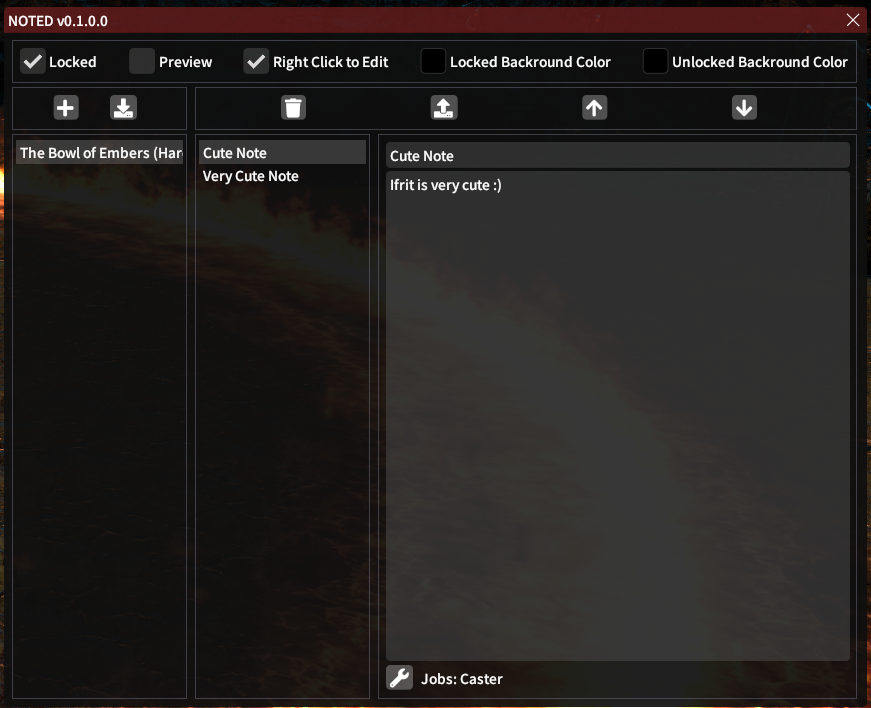
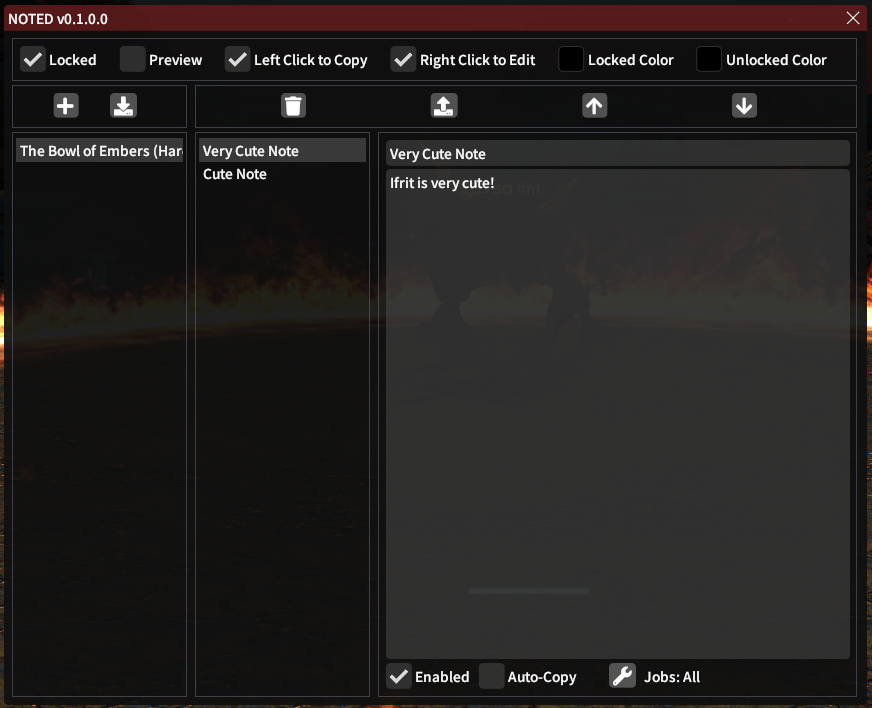
Implementing copy features

Changed region(s): [[0.0, 0.0, 1.0, 1.0]]

diff --git a/NOTED/Windows/SettingsWindow.cs b/NOTED/Windows/SettingsWindow.cs
@@ -138,19 +138,23 @@ namespace NOTED.Windows
                 ImGui.Checkbox("Locked", ref Settings.Locked);
                 DrawHelper.SetTooltip("Untick to be able to move and resize the notes.");
 
-                DrawHelper.Tab();
+                DrawHelper.Tab(0.6f);
                 ImGui.Checkbox("Preview", ref Settings.Preview);
                 DrawHelper.SetTooltip("Tick to preview a dummy note and be able to move it and resize it.");
 
-                DrawHelper.Tab();
+                DrawHelper.Tab(0.6f);
+                ImGui.Checkbox("Left Click to Copy", ref Settings.LeftClickToCopy);
+                DrawHelper.SetTooltip("When enabled, left clicking on a note will copy its contents to the clipboard.");
+
+                DrawHelper.Tab(0.6f);
                 ImGui.Checkbox("Right Click to Edit", ref Settings.RightClickToEdit);
                 DrawHelper.SetTooltip("When enabled, right clicking on a note will open the configuration window to edit it.");
 
-                DrawHelper.Tab();
-                ImGui.ColorEdit4("Locked Backround Color", ref Settings.LockedBackgroundColor, ImGuiColorEditFlags.NoInputs);
+                DrawHelper.Tab(0.6f);
+                ImGui.ColorEdit4("Locked Color", ref Settings.LockedBackgroundColor, ImGuiColorEditFlags.NoInputs);
 
-                DrawHelper.Tab();
-                ImGui.ColorEdit4("Unlocked Backround Color", ref Settings.UnlockedBackgroundColor, ImGuiColorEditFlags.NoInputs);
+                DrawHelper.Tab(0.6f);
+                ImGui.ColorEdit4("Unlocked Color", ref Settings.UnlockedBackgroundColor, ImGuiColorEditFlags.NoInputs);
             }
             ImGui.EndChild();
         }
@@ -159,7 +163,7 @@ namespace NOTED.Windows
         {
             ImGui.BeginChild("##Buttons", new Vector2(150 * _scale, 37 * _scale), true);
             {
-                DrawHelper.Tab(1.1f);
+                DrawHelper.Tab(1.2f);
                 ImGui.PushFont(UiBuilder.IconFont);
                 if (ImGui.Button(FontAwesomeIcon.Plus.ToIconString()))
                 {
@@ -314,11 +318,16 @@ namespace NOTED.Windows
                     for (int i = 0; i < SelectedDuty.Notes.Count; i++)
                     {
                         Note note = SelectedDuty.Notes[i];
+                        uint color = note.Enabled ? 0xFFFFFFFF : 0xFF666666;
+                        ImGui.PushStyleColor(ImGuiCol.Text, color);
+
                         if (ImGui.Selectable(note.Title + "##note" + i.ToString(), note == SelectedNote))
                         {
                             SelectedNote = note;
                             NeedsFocus = true;
                         }
+
+                        ImGui.PopStyleColor();
                     }
                 }
             }
@@ -342,6 +351,13 @@ namespace NOTED.Windows
                     }
                     ImGui.InputTextMultiline("##Text", ref SelectedNote.Text, 99999, new Vector2(398 * _scale, 420 * _scale), ImGuiInputTextFlags.AutoSelectAll);
 
+                    ImGui.Checkbox("Enabled", ref SelectedNote.Enabled);
+
+                    ImGui.SameLine();
+                    ImGui.Checkbox("Auto-Copy", ref SelectedNote.AutoCopy);
+                    DrawHelper.SetTooltip("When enabled, the contents of the note will be automatically copied to the clipboard when it appears.");
+
+                    DrawHelper.Tab();
                     ImGui.PushFont(UiBuilder.IconFont);
                     if (ImGui.Button(FontAwesomeIcon.Wrench.ToIconString()))
                     {

diff --git a/NOTED/Plugin.cs b/NOTED/Plugin.cs
@@ -7,6 +7,7 @@ using Dalamud.Game.Gui;
 using Dalamud.Interface;
 using Dalamud.Interface.Windowing;
 using Dalamud.Plugin;
+using ImGuiNET;
 using NOTED.Models;
 using NOTED.Windows;
 using System;
@@ -38,8 +39,9 @@ namespace NOTED
         private static NoteWindow _noteWindow = null!;
 
         private static ushort _prevTerritoryID = 0;
-        private static Duty? _activeDuty = null!;
+        private static Duty? _activeDuty = null;
         private static bool _forceHide = false;
+        private static Note? _prevNote = null;
 
         public Plugin(
             ClientState clientState,
@@ -163,6 +165,7 @@ namespace NOTED
             {
                 _activeDuty = null;
                 _noteWindow.Note = null;
+                _prevNote = null;
                 _forceHide = false;
                 _prevTerritoryID = territory;
 
@@ -175,7 +178,16 @@ namespace NOTED
             // set note
             if (_activeDuty != null)
             {
-                _noteWindow.Note = _activeDuty.GetActiveNote();
+                Note? activeNote = _activeDuty.GetActiveNote();
+
+                // auto copy?
+                if (activeNote != null && activeNote != _prevNote && activeNote.AutoCopy)
+                {
+                    ImGui.SetClipboardText(activeNote.Text);
+                }
+
+                _prevNote = activeNote;
+                _noteWindow.Note = activeNote;
             }
 
             _noteWindow.IsOpen = Settings.Preview || (_noteWindow.Note != null && !_forceHide);

diff --git a/NOTED/Windows/NoteWindow.cs b/NOTED/Windows/NoteWindow.cs
@@ -54,9 +54,17 @@ namespace NOTED.Windows
             ImGui.TextWrapped(text);
             ImGui.PopTextWrapPos();
 
-            if (Settings.RightClickToEdit && ImGui.IsMouseClicked(ImGuiMouseButton.Right))
+            if (ImGui.IsWindowHovered())
             {
-                Plugin.EditNote(Note);
+                if (Settings.LeftClickToCopy && ImGui.IsMouseClicked(ImGuiMouseButton.Left))
+                {
+                    ImGui.SetClipboardText(text);
+                }
+
+                if (Settings.RightClickToEdit && ImGui.IsMouseClicked(ImGuiMouseButton.Right))
+                {
+                    Plugin.EditNote(Note);
+                }
             }
         }
     }

diff --git a/NOTED/Models/JobsData.cs b/NOTED/Models/JobsData.cs
@@ -12,9 +12,9 @@ namespace NOTED.Models
         public string Text {
             get
             {
-                if (_text.Length <= 50) { return _text; }
+                if (_text.Length <= 24) { return _text; }
 
-                return _text.Substring(0, 46) + " ...";
+                return _text.Substring(0, 20) + " ...";
             }
         }
 

diff --git a/NOTED/Settings.cs b/NOTED/Settings.cs
@@ -14,6 +14,7 @@ namespace NOTED
 
         public bool Locked = false;
         public bool Preview = false;
+        public bool LeftClickToCopy = true;
         public bool RightClickToEdit = true;
         public Vector4 LockedBackgroundColor = new Vector4(0f, 0f, 0f, 0.25f);
         public Vector4 UnlockedBackgroundColor = new Vector4(0f, 0f, 0f, 0.75f);

diff --git a/NOTED/Models/Note.cs b/NOTED/Models/Note.cs
@@ -1,12 +1,12 @@
-using System.Collections.Generic;
-
-namespace NOTED.Models
+namespace NOTED.Models
 {
     public class Note
     {
         public string Title;
         public string Text;
         public JobsData Jobs;
+        public bool Enabled = true;
+        public bool AutoCopy = false;
 
         public Note()
         {

diff --git a/NOTED/Models/Duty.cs b/NOTED/Models/Duty.cs
@@ -28,6 +28,8 @@ namespace NOTED.Models
 
             foreach (Note note in Notes)
             {
+                if (!note.Enabled) { continue; }
+
                 if (note.Jobs.IsEmpty && firstNote == null)
                 {
                     firstNote = note;
